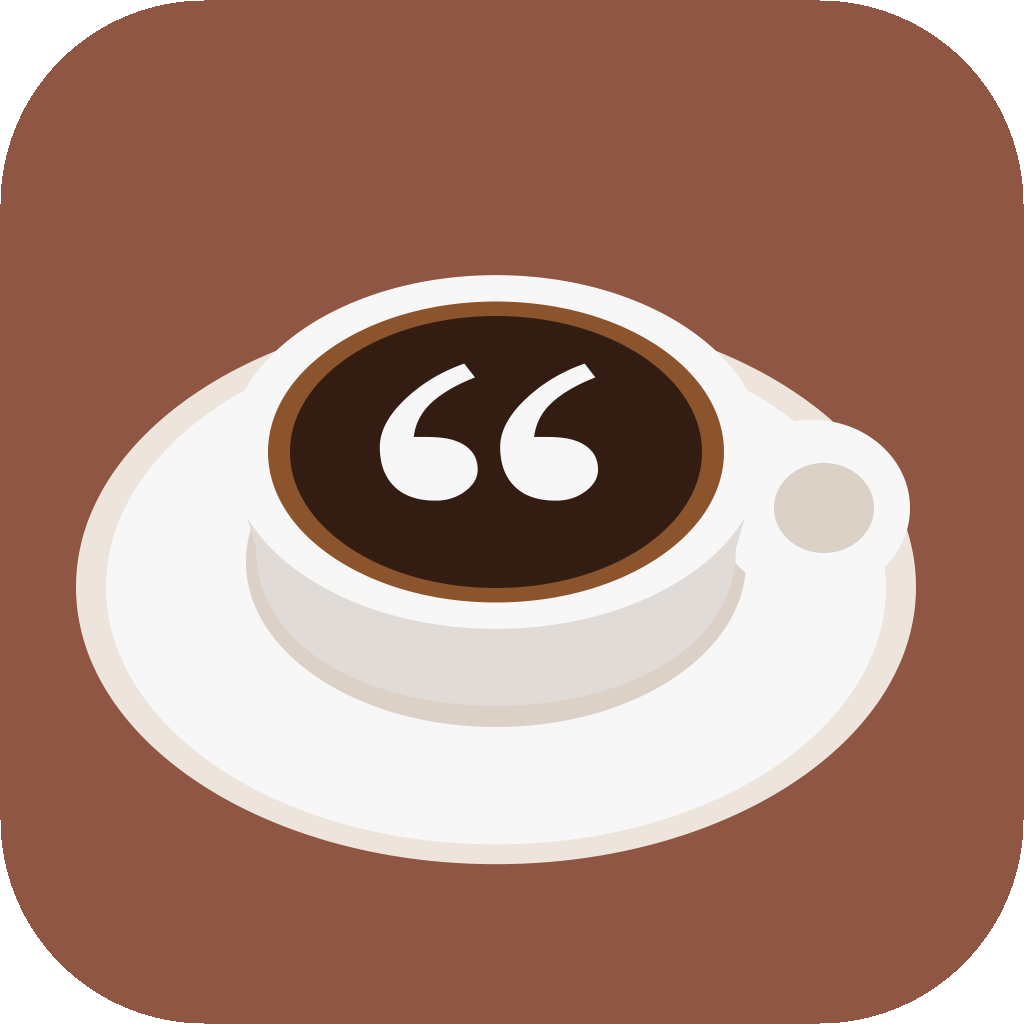
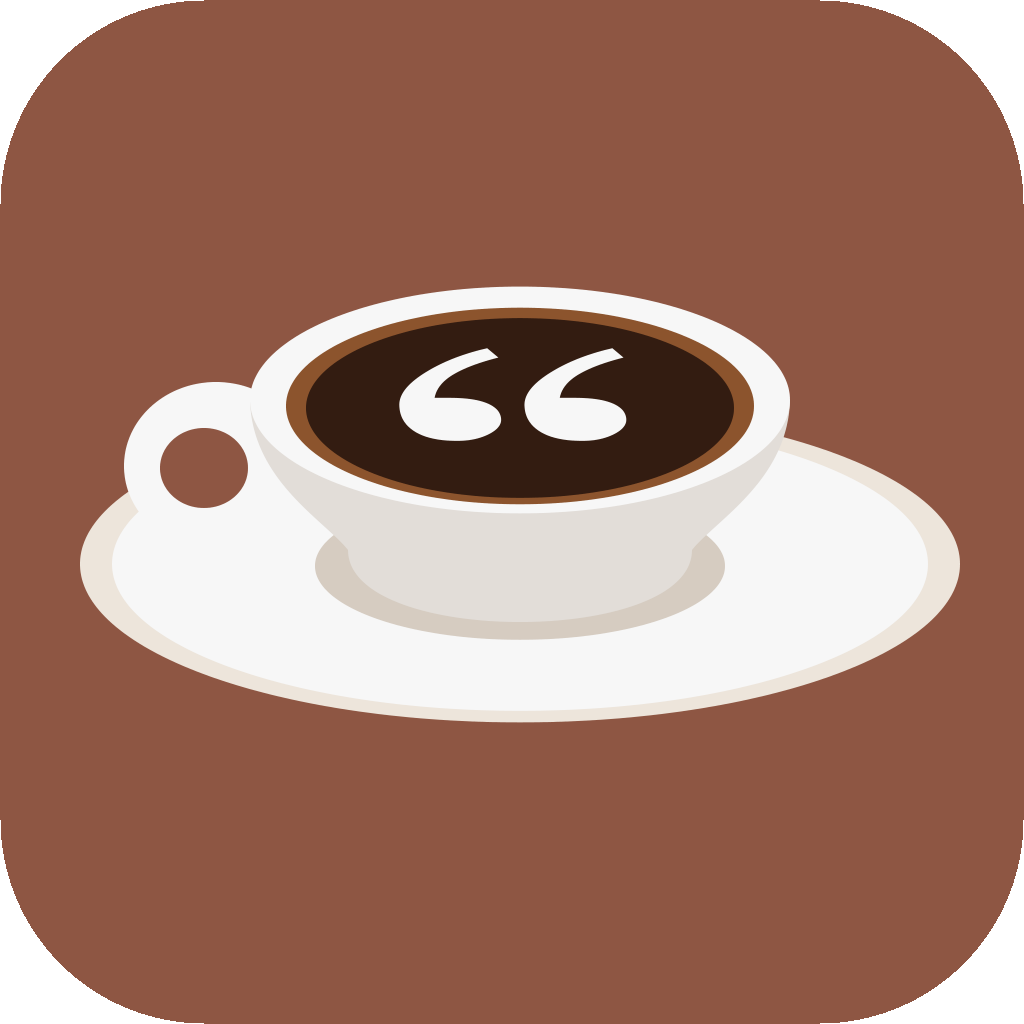
feat: the cup sits at a low three-quarter angle, handle on the left
A flatter rim, the bowl of the cup showing below it, the handle on the left and
the quotation pair lying on the coffee, the way a cup sits in front of you on
the table. scripts/logo.py draws it.

Claude-Session: https://claude.ai/code/session_01KnQzD9uNUxqzJaUbTaisqm

Changed region(s): [[0.0625, 0.25, 0.9375, 0.8438]]

diff --git a/scripts/logo.py b/scripts/logo.py
@@ -1,50 +1,70 @@
-"""espresso logo, a three-quarter view from above: the rim and saucer are ellipses, a short
-cup wall shows below the rim, a handle on the right, and one white quotation pair sits on
-the surface of the coffee, foreshortened with it. Ground #8E5643, rounded corners."""
+"""espresso logo: a cup on its saucer seen from a low three-quarter angle, the way a cup
+sits in front of you on the table. The rim is a flat ellipse, the bowl of the cup shows
+below it, the handle is on the left, and one white quotation pair lies on the surface of
+the coffee, foreshortened with it. Ground #8E5643, rounded corners.
+
+    uv run python scripts/logo.py out.png
+"""
 import fitz, sys
+
 S = 1024
-K = 0.66            # vertical squash of every circle: 1.0 is straight down, ~0.7 is a 3/4 view
-doc = fitz.open(); page = doc.new_page(width=S, height=S)
-bg = (0x8E/255, 0x56/255, 0x43/255)
+K = 0.42            # vertical squash of the rim: 1.0 is straight down, 0.42 is a low angle
+KS = 0.36           # the saucer sits lower, so it is flatter still
+bg = (0x8E / 255, 0x56 / 255, 0x43 / 255)
 white = (0.97, 0.97, 0.97)
-wall = (0.88, 0.86, 0.84)
+wall = (0.89, 0.87, 0.85)
 cream = (0.93, 0.90, 0.86)
-lip = (0.86, 0.82, 0.78)
+shade = (0.84, 0.80, 0.76)
 coffee = (0.20, 0.11, 0.07)
 crema = (0.55, 0.33, 0.18)
-cx, cy = 496, 452   # centre of the rim
+
+cx, cy = 520, 400   # centre of the rim
+R, RB, H = 270, 172, 150   # rim radius, base radius, height of the bowl
+
+
 def ell(sh, x, y, rx, ry, fill):
-    sh.draw_oval(fitz.Rect(x - rx, y - ry, x + rx, y + ry)); sh.finish(fill=fill, color=None)
+    sh.draw_oval(fitz.Rect(x - rx, y - ry, x + rx, y + ry))
+    sh.finish(fill=fill, color=None)
+
+
+doc = fitz.open()
+page = doc.new_page(width=S, height=S)
 sh = page.new_shape()
 sh.draw_rect(page.rect); sh.finish(fill=bg, color=None)
-# saucer, sitting lower than the rim
-sy = cy + 135
-ell(sh, cx, sy, 420, 420 * K, cream)
-ell(sh, cx, sy, 390, 390 * K, white)
-ell(sh, cx, cy + 96 + 14, 250, 250 * K, lip)     # the cup's shadow on the saucer: only its lower edge shows past the base
-# handle, drawn first so the cup wall covers its root
-hx, hy = cx + 268 + 48, cy + 56
-ell(sh, hx, hy, 98, 98 * 0.9, white)
-ell(sh, hx + 12, hy, 50, 50 * 0.9, lip)
-# cup wall: from the rim's sides down to a smaller bottom ellipse
-R, H, RB = 268, 96, 240
-p = sh
-p.draw_line(fitz.Point(cx - R, cy), fitz.Point(cx - RB, cy + H))
-p.draw_bezier(fitz.Point(cx - RB, cy + H), fitz.Point(cx - RB, cy + H + RB * K * 1.33),
-              fitz.Point(cx + RB, cy + H + RB * K * 1.33), fitz.Point(cx + RB, cy + H))
-p.draw_line(fitz.Point(cx + RB, cy + H), fitz.Point(cx + R, cy))
-p.finish(fill=wall, color=None, closePath=True)
-# rim, crema, coffee
+
+# saucer, behind everything; its far edge shows just under the rim
+sy = cy + H + 14
+ell(sh, cx, sy, 440, 440 * KS, cream)
+ell(sh, cx, sy, 408, 408 * KS, white)
+ell(sh, cx, sy + 2, 205, 205 * KS, shade)        # the cup's shadow; only its lower edge shows
+
+# handle on the left, drawn before the bowl so the bowl covers its root
+hx, hy = cx - R - 34, cy + 66
+ell(sh, hx, hy, 92, 84, white)
+ell(sh, hx - 12, hy + 2, 44, 40, bg)             # the hole shows the ground through it
+
+# the bowl: from the rim's widest points down curved sides to a smaller base
+P = fitz.Point
+sh.draw_line(P(cx - R, cy), P(cx - R, cy))
+sh.draw_bezier(P(cx - R, cy), P(cx - R + 2, cy + 80), P(cx - RB - 24, cy + H - 30), P(cx - RB, cy + H))
+sh.draw_bezier(P(cx - RB, cy + H), P(cx - RB, cy + H + RB * K * 1.33), P(cx + RB, cy + H + RB * K * 1.33), P(cx + RB, cy + H))
+sh.draw_bezier(P(cx + RB, cy + H), P(cx + RB + 24, cy + H - 30), P(cx + R - 2, cy + 80), P(cx + R, cy))
+sh.finish(fill=wall, color=None, closePath=True)
+
+# rim, then the coffee a touch lower than the rim's centre so the far inner wall shows
 ell(sh, cx, cy, R, R * K, white)
-ell(sh, cx, cy, 228, 228 * K, crema)
-ell(sh, cx, cy, 206, 206 * K, coffee)
+ell(sh, cx, cy + 6, 234, 234 * K, crema)
+ell(sh, cx, cy + 8, 214, 214 * K, coffee)
 sh.commit()
-# the quotation pair on the surface: scaled vertically about the cup centre so it lies in the plane
+
+# the quotation pair on the surface, scaled vertically about the coffee's centre
 font = "/System/Library/Fonts/Supplemental/Georgia Bold.ttf"
-fs = 500
+fs = 520
+qy = cy + 8
 tw = fitz.Font(fontfile=font).text_length("“", fontsize=fs)
-page.insert_text(fitz.Point(cx - tw / 2 - 4, cy + 0.524 * fs), "“", fontsize=fs, fontfile=font,
-                 fontname="georgiab", color=white, morph=(fitz.Point(cx, cy), fitz.Matrix(1, 0.8)))
+page.insert_text(P(cx - tw / 2 - 4, qy + 0.524 * fs), "“", fontsize=fs, fontfile=font,
+                 fontname="georgiab", color=white, morph=(P(cx, qy), fitz.Matrix(1, 0.52)))
+
 pix = page.get_pixmap(alpha=True)
 r = int(S * 0.2)
 for y in range(S):
@@ -52,4 +72,5 @@ for y in range(S):
         dx = max(r - x, x - (S - 1 - r), 0); dy = max(r - y, y - (S - 1 - r), 0)
         if dx * dx + dy * dy > r * r:
             pix.set_pixel(x, y, (0, 0, 0, 0))
-pix.save(sys.argv[1]); print("ok")
+pix.save(sys.argv[1])
+print("wrote", sys.argv[1])
